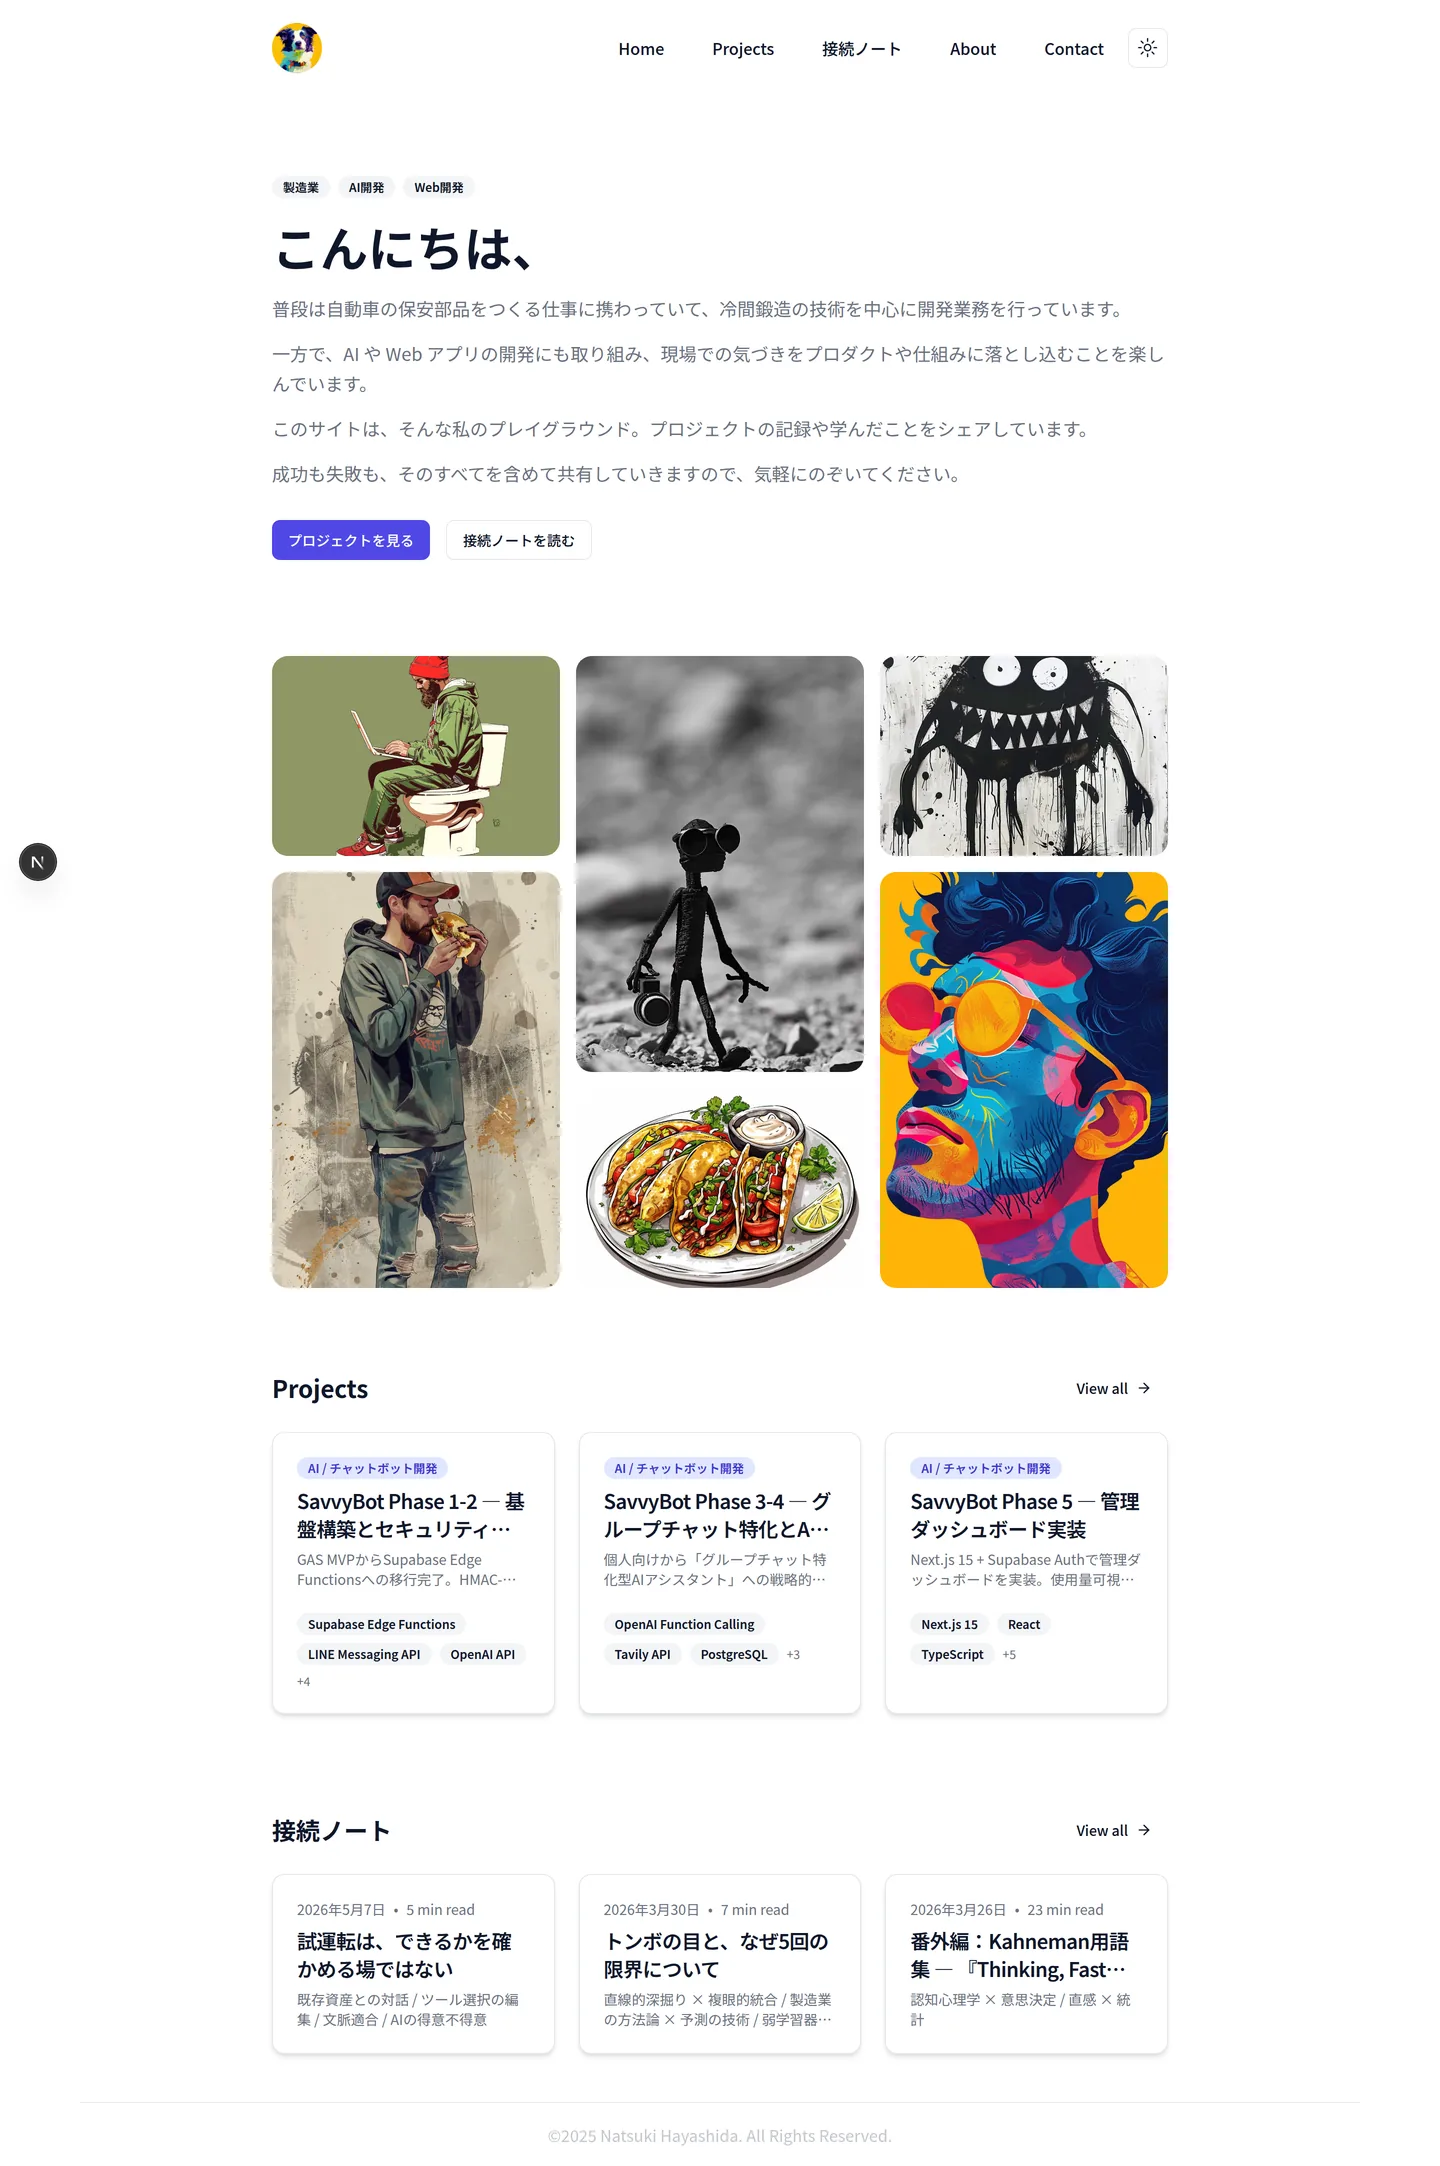
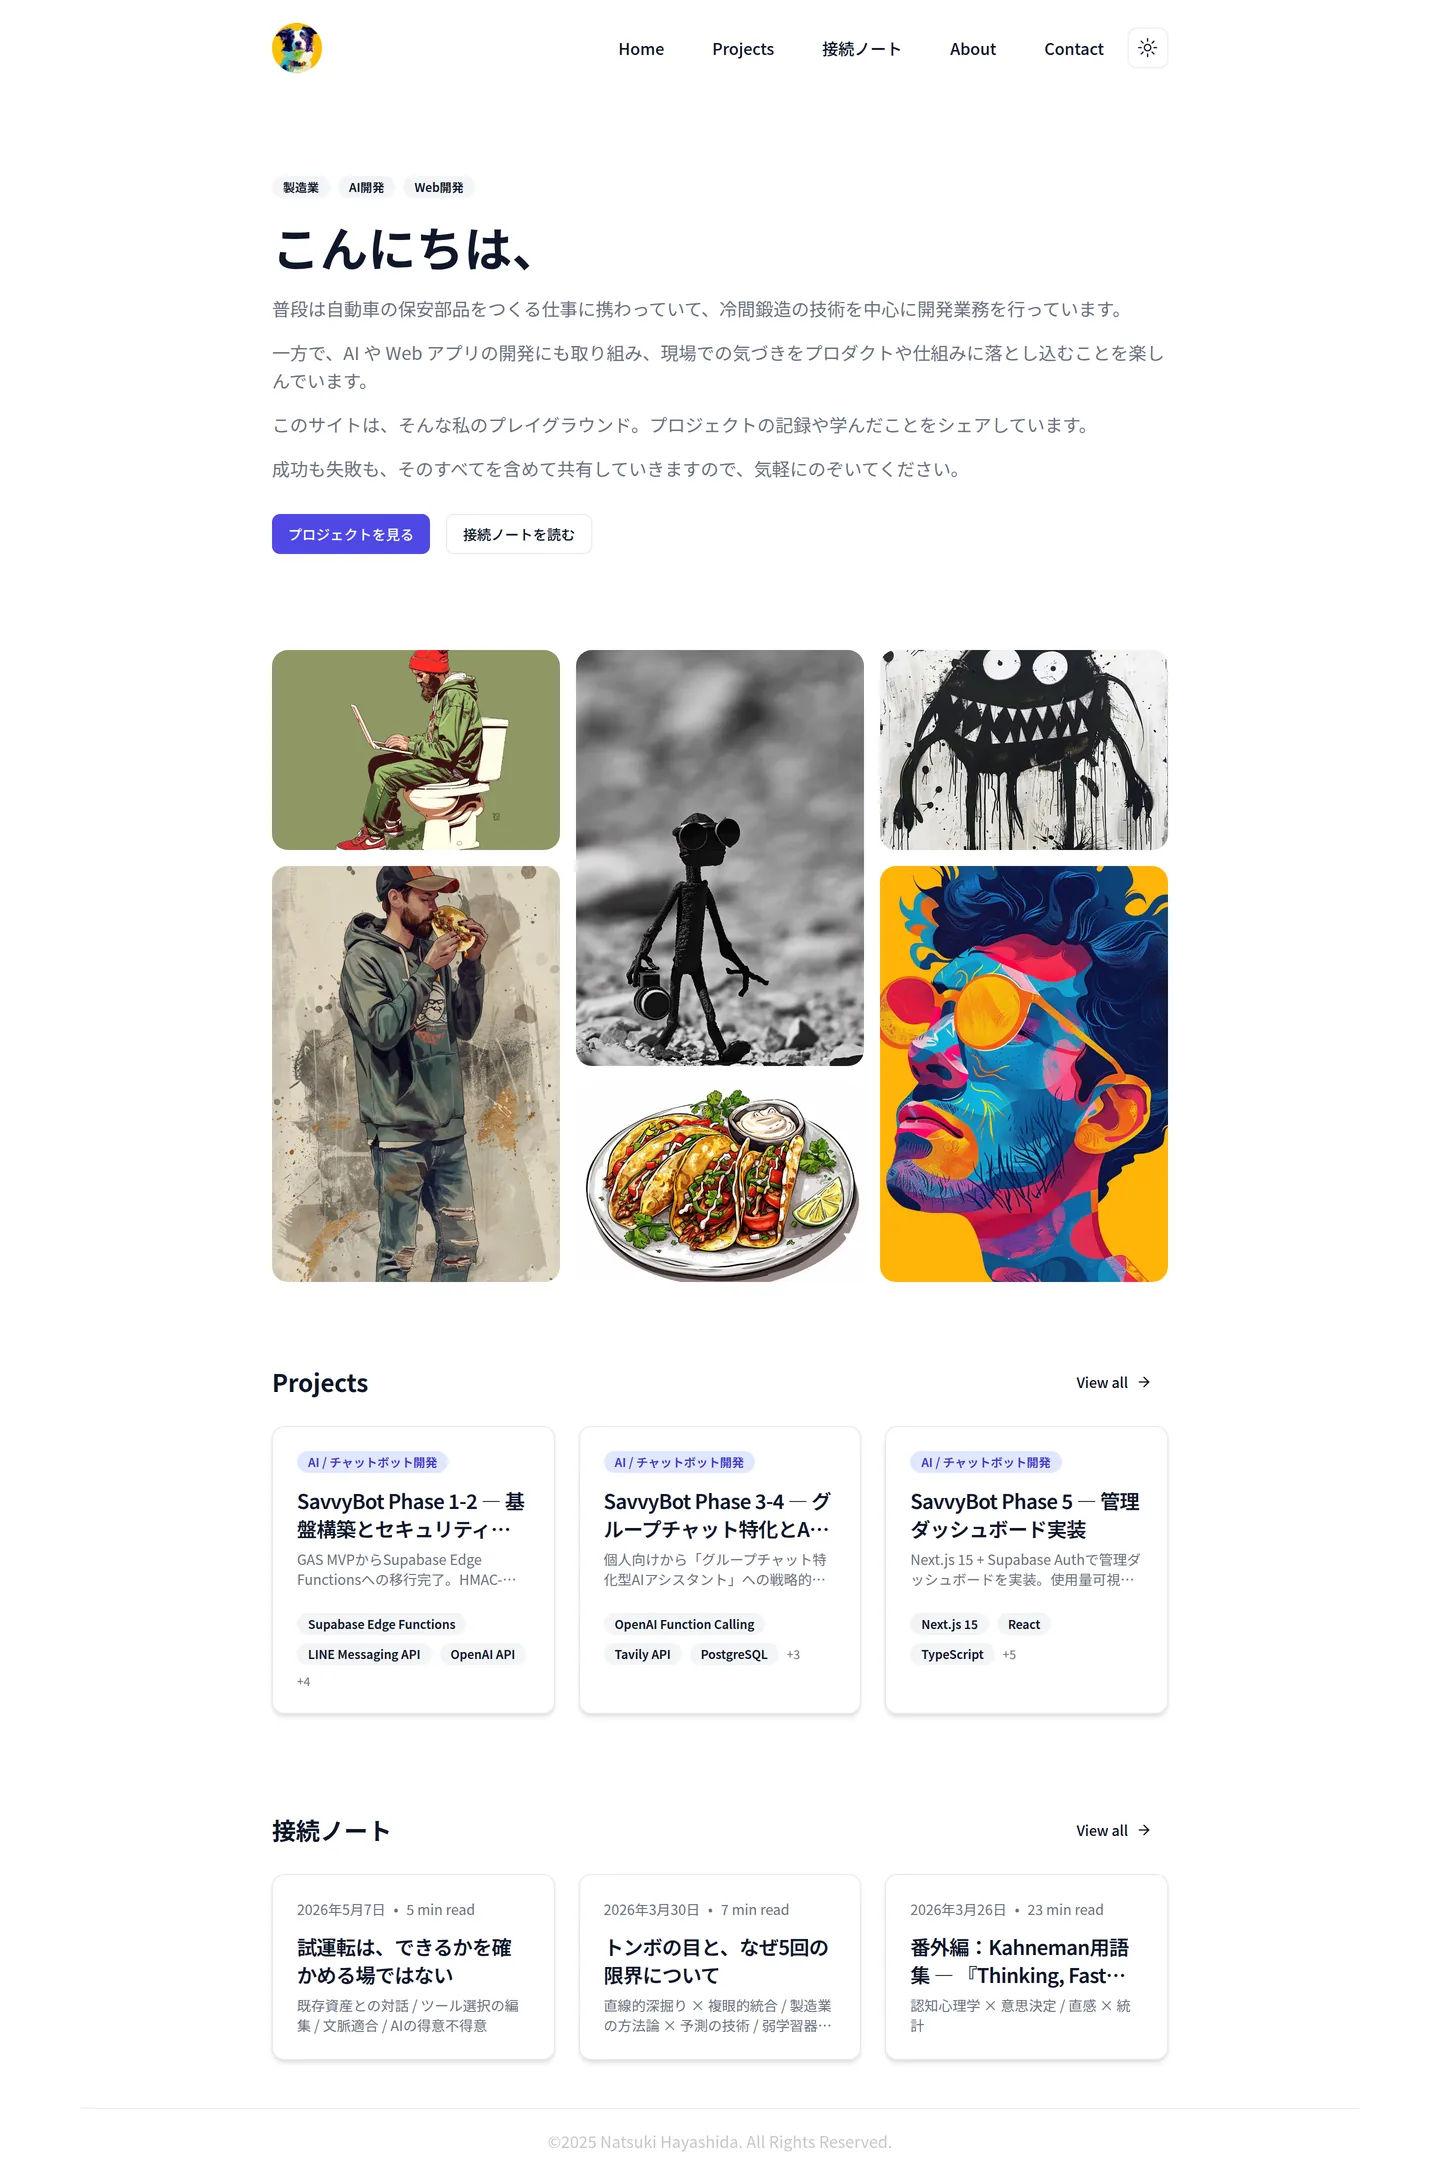
fix: 公開URLを www.natsuki163.com に直し、旧トップの記録を本番の実物に差し替える
sitemap.ts / robots.ts の baseUrl が雛形の natsuki-portfolio.vercel.app のままで、
そのURLは別人のサイトが使っている。sitemap.xml と robots.txt が他人のドメインを
指していたので実際の公開URLに直した。layout.tsx に metadataBase も明示する
（これまではリクエストのホストから推測されていた）。

あわせて claudedocs/archive/pre-renewal-2026-08/ の3枚を、本番
https://www.natsuki163.com/ をそのまま撮ったものに差し替えた。
最初はローカル再現（2fce507）を撮っていたが、本番と比べると本文の段落間隔が広く
ページ全体で6px長かった（Tailwind 4 移行が縦のリズムに効いていた）。
記録は実物であるべきなので置き換え、その経緯を README に残した。

Claude-Session: https://claude.ai/code/session_016TyXFNQAR54uNbzRUsDLsu

diff --git a/app/sitemap.ts b/app/sitemap.ts
@@ -3,7 +3,7 @@ import { getAllConnections } from '@/lib/connections'
 import { getAllProjects } from '@/lib/projects'
 
 export default function sitemap(): MetadataRoute.Sitemap {
-  const baseUrl = 'https://natsuki-portfolio.vercel.app' // 本番環境のURLに変更してください
+  const baseUrl = 'https://www.natsuki163.com'
 
   // 静的ページ
   const staticPages = [

diff --git a/app/robots.ts b/app/robots.ts
@@ -1,7 +1,7 @@
 import { MetadataRoute } from 'next'
 
 export default function robots(): MetadataRoute.Robots {
-  const baseUrl = 'https://natsuki-portfolio.vercel.app' // 本番環境のURLに変更してください
+  const baseUrl = 'https://www.natsuki163.com'
 
   return {
     rules: [

diff --git a/app/layout.tsx b/app/layout.tsx
@@ -31,6 +31,7 @@ const bizUD = BIZ_UDPGothic({
 });
 
 export const metadata: Metadata = {
+  metadataBase: new URL('https://www.natsuki163.com'),
   title: {
     default: "Natsuki Hayashida | 金型設計 × AI × Web開発",
     template: "%s | Natsuki Hayashida",

diff --git a/claudedocs/archive/pre-renewal-2026-08/README.md b/claudedocs/archive/pre-renewal-2026-08/README.md
@@ -1,6 +1,6 @@
 # リニューアル前のトップページ（記録）
 
-2026-08 のミニマル・エディトリアルへの全面刷新（`4888c52`）で消えた、
+2026-08 のミニマル・エディトリアルへの全面刷新（`4888c52`）で消える、
 **それまでのトップページの見た目**を残したもの。コードは git に残るが、
 「どう見えていたか」は残らないので画像で保存する。
 
@@ -8,26 +8,29 @@
 
 | ファイル | 条件 | 実寸 |
 |---|---|---|
-| `old-top-pc-light.webp` | PC・ライト | 1440 × 2166 CSS px |
-| `old-top-pc-dark.webp` | PC・ダーク | 1440 × 2166 CSS px |
-| `old-top-sp-light.webp` | スマホ・ライト | 390 × 3648 CSS px |
+| `old-top-pc-light.webp` | PC・ライト | 1440 × 2172 CSS px |
+| `old-top-pc-dark.webp` | PC・ダーク | 1440 × 2172 CSS px |
+| `old-top-sp-light.webp` | スマホ・ライト | 390 × 3684 CSS px |
 
 ページ全体を1枚に収めた縦長画像。2倍／3倍で撮ってCSSピクセル相当まで縮小し、
 WebP（品質82）にしてある（PNGのままだと1枚3MBあった）。
 
-## どの時点か
+## 何を撮ったか
 
-`2fce507`（upgrade: Tailwind CSS 4へ移行）— **刷新の直前のコミット**。
+**本番の https://www.natsuki163.com/ をそのまま撮影**（2026-08-14）。
+撮影時点の本番は `266c7a4`（刷新分をまだ push していない状態）で、
+つまり**訪問者が実際に見ていた最後の旧デザイン**そのもの。
 
-刷新前の最後の公開状態は `266c7a4` だが、そこから `2fce507` までの3コミットは
-依存の更新であって見た目は変わっていない。確認したのは次の2点。
+### ローカル再現は使わなかった
 
-- `d01f994` が消した Three.js 系（MovingLight・NetworkAnimation・NetworkBanner・
-  TypingText）は、どこからも import されていない定義だけの状態だった
-- 残る差分は `app/globals.css` の Tailwind 4 互換指定と、
-  `app/page.tsx` の alt 文字列1箇所（`outline` → `outline-solid`、codemod の巻き込み）のみ
+最初は刷新直前のコミット `2fce507` を worktree で動かして撮ったが、
+本番と比べると**本文の段落間隔が広く、ページ全体で6px長かった**
+（`2fce507` は Tailwind 4 移行後で、移行が縦のリズムに効いていた）。
+記録としては本番の実物のほうが正しいので差し替えた。
 
-つまり **この画像は刷新前の見た目そのもの**として扱ってよい。
+`266c7a4`〜`2fce507` の差分は依存更新のみ（消えた Three.js 系はどこからも
+import されていない定義だけだった）と読めるが、**見た目は完全には一致しない**。
+旧デザインをローカルで再現するときは `266c7a4` を使うこと。
 
 ## 何が写っているか
 
@@ -36,16 +39,19 @@ WebP（品質82）にしてある（PNGのままだと1枚3MBあった）。
 - 「こんにちは、」の大見出しと4段落の自己紹介、青紫のCTAボタン2つ
 - AI生成イラスト6枚のモザイクギャラリー
 - Projects と接続ノートを**角丸カード＋影**で3枚ずつ並べる
+- 掲載していたプロジェクトは SavvyBot 3本（`e2bc4ef` で実プロジェクト3本に差し替え）
 
 刷新後は、カードと背景色ボックスをやめて罫線と番号で構造化し、
 アクセントを青紫から朱に変えている（`claudedocs/RENEWAL_PLAN_2026.md`）。
 
 ## 撮り直す手順
 
+本番はもう新デザインなので、旧デザインを撮り直すならローカルで動かすしかない。
+
 ```bash
-git worktree add -d /home/natsuki163/work/_oldsite-2fce507 2fce507
-cp -al node_modules /home/natsuki163/work/_oldsite-2fce507/node_modules   # 同一FSならハードリンクで一瞬
-cd /home/natsuki163/work/_oldsite-2fce507 && npx next dev -p 3100
+git worktree add -d /home/natsuki163/work/_oldsite 266c7a4
+cd /home/natsuki163/work/_oldsite && npm ci   # 当時は Next 14 系。node_modules は流用できない
+npx next dev -p 3100
 ```
 
 撮影は CDP のデバイスエミュレーション（`Emulation.setDeviceMetricsOverride`）で行う。
@@ -53,4 +59,4 @@ cd /home/natsuki163/work/_oldsite-2fce507 && npx next dev -p 3100
 ダークは `Emulation.setEmulatedMedia` で `prefers-color-scheme: dark` を与える。
 撮る前に一度最下部までスクロールして戻すこと（遅延表示のため）。
 
-終わったら `git worktree remove --force /home/natsuki163/work/_oldsite-2fce507`。
+終わったら `git worktree remove --force /home/natsuki163/work/_oldsite`。
